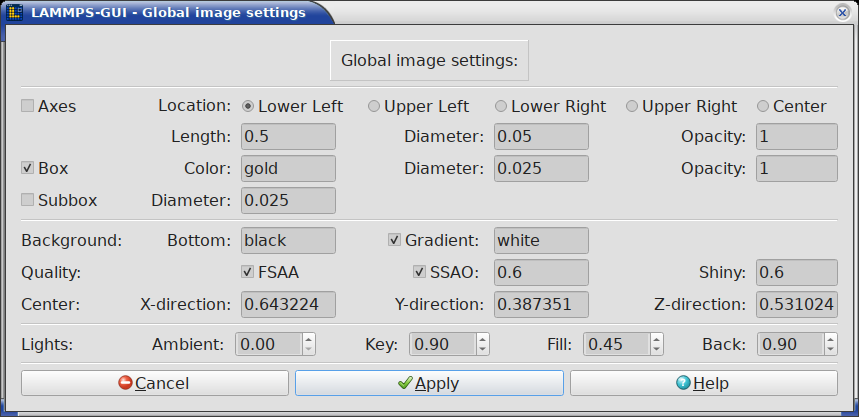
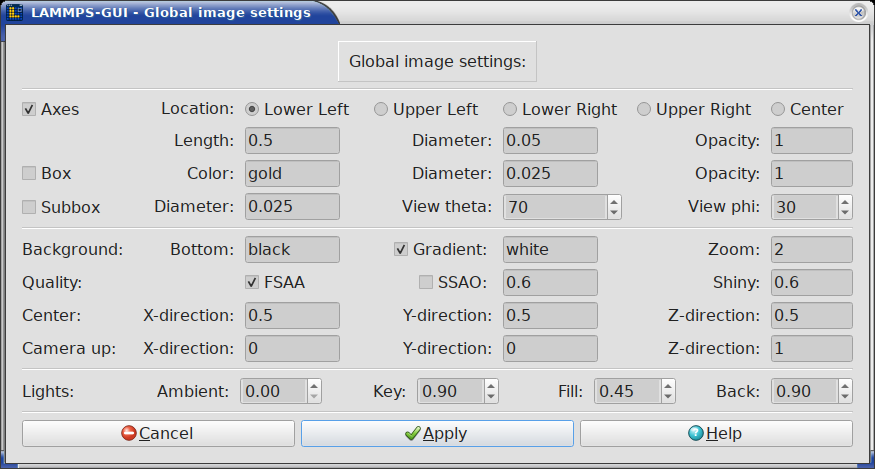
add more fields to global settings: view, zoom, up

Changed region(s): [[0.0, 0.0935, 0.9988, 0.9976], [0.0, 0.0, 0.9988, 0.0624], [0.9383, 0.4053, 0.9988, 0.4365]]

diff --git a/src/imageviewersettings.cpp b/src/imageviewersettings.cpp
@@ -98,7 +98,10 @@ void ImageViewer::globalSettings()
     auto *colorvalidator    = new QColorValidator(this);
     auto *transvalidator    = new QDoubleValidator(0.0, 1.0, 3, this);
     auto *fractionvalidator = new QDoubleValidator(0.00001, 5.0, 5, this);
+    auto *zoomvalidator     = new QDoubleValidator(ZOOM_MIN, ZOOM_MAX, 3, this);
+    auto *upvalidator       = new QDoubleValidator(this);
     auto fwidth             = setview.fontMetrics().size(Qt::TextSingleLine, "0.00000000").width();
+    const bool is3d         = lammps->extractSetting("dimension") == 3;
 
     auto *layout          = new QGridLayout;
     int idx               = 0;
@@ -184,7 +187,30 @@ void ImageViewer::globalSettings()
     auto *subdiam = new QLineEdit(QString::number(subboxdiam));
     subdiam->setValidator(fractionvalidator);
     subdiam->setMaximumWidth(fwidth);
-    layout->addWidget(subdiam, idx++, n++, 1, 1);
+    layout->addWidget(subdiam, idx, n++, 1, 1);
+
+    // the "view" angles have no effect on a 2d system, where LAMMPS looks down the z-axis
+    layout->addWidget(new QLabel("View theta: "), idx, n++, 1, 1,
+                      Qt::AlignVCenter | Qt::AlignRight);
+    auto *thetaval = new QSpinBox;
+    thetaval->setRange(0, 360);
+    thetaval->setSingleStep(10);
+    thetaval->setWrapping(true);
+    thetaval->setValue(hrot);
+    thetaval->setMaximumWidth(fwidth * 3 / 2);
+    thetaval->setEnabled(is3d);
+    thetaval->setToolTip("Viewing angle in degrees away from the +z axis");
+    layout->addWidget(thetaval, idx, n++, 1, 1);
+    layout->addWidget(new QLabel("View phi: "), idx, n++, 1, 1, Qt::AlignVCenter | Qt::AlignRight);
+    auto *phival = new QSpinBox;
+    phival->setRange(-180, 180);
+    phival->setSingleStep(10);
+    phival->setWrapping(true);
+    phival->setValue(vrot);
+    phival->setMaximumWidth(fwidth * 3 / 2);
+    phival->setEnabled(is3d);
+    phival->setToolTip("Azimuthal viewing angle in degrees around the z axis");
+    layout->addWidget(phival, idx++, n++, 1, 1);
     layout->addWidget(new QHline, idx++, 0, 1, MAXCOLS);
 
     n = 0;
@@ -206,7 +232,14 @@ void ImageViewer::globalSettings()
     b2color->setMaximumWidth(fwidth);
     b2color->setEnabled(usegradient);
     connect(gradient, &QCheckBox::toggled, b2color, &QLineEdit::setEnabled);
-    layout->addWidget(b2color, idx++, n++, 1, 1);
+    layout->addWidget(b2color, idx, n++, 1, 1);
+    layout->addWidget(new QLabel("Zoom: "), idx, n++, 1, 1, Qt::AlignVCenter | Qt::AlignRight);
+    auto *zoomval = new QLineEdit(QString::number(zoom));
+    zoomval->setValidator(zoomvalidator);
+    zoomval->setMaximumWidth(fwidth);
+    zoomval->setToolTip(
+        QString("Zoom factor of the view (range: %1 -- %2)").arg(ZOOM_MIN).arg(ZOOM_MAX));
+    layout->addWidget(zoomval, idx++, n++, 1, 1);
 
     n = 0;
     layout->addWidget(new QLabel("Quality:"), idx, n++, 1, 1);
@@ -247,6 +280,30 @@ void ImageViewer::globalSettings()
     zval->setValidator(transvalidator);
     zval->setMaximumWidth(fwidth);
     layout->addWidget(zval, idx++, n++, 1, 1);
+
+    n             = 0;
+    auto *uplabel = new QLabel("Camera up:");
+    uplabel->setToolTip("Direction pointing up in the image; must not be the zero vector");
+    layout->addWidget(uplabel, idx, n++, 1, 1);
+    layout->addWidget(new QLabel("X-direction: "), idx, n++, 1, 1,
+                      Qt::AlignVCenter | Qt::AlignRight);
+    auto *xupval = new QLineEdit(QString::number(xup));
+    xupval->setValidator(upvalidator);
+    xupval->setMaximumWidth(fwidth);
+    layout->addWidget(xupval, idx, n++, 1, 1);
+    layout->addWidget(new QLabel("Y-direction: "), idx, n++, 1, 1,
+                      Qt::AlignVCenter | Qt::AlignRight);
+    auto *yupval = new QLineEdit(QString::number(yup));
+    yupval->setValidator(upvalidator);
+    yupval->setMaximumWidth(fwidth);
+    layout->addWidget(yupval, idx, n++, 1, 1);
+    layout->addWidget(new QLabel("Z-direction: "), idx, n++, 1, 1,
+                      Qt::AlignVCenter | Qt::AlignRight);
+    auto *zupval = new QLineEdit(QString::number(zup));
+    zupval->setValidator(upvalidator);
+    zupval->setMaximumWidth(fwidth);
+    zupval->setEnabled(is3d);
+    layout->addWidget(zupval, idx++, n++, 1, 1);
 
     n = 0;
     layout->addWidget(new QHline, idx++, 0, 1, MAXCOLS);
@@ -347,6 +404,10 @@ void ImageViewer::globalSettings()
     if (bgcolor->hasAcceptableInput()) backcolor = bgcolor->text();
     if (b2color->hasAcceptableInput()) backcolor2 = b2color->text();
     usegradient = gradient->isChecked();
+    if (zoomval->hasAcceptableInput()) zoom = zoomval->text().toDouble();
+
+    hrot = thetaval->value();
+    vrot = phival->value();
 
     antialias = fsaa->isChecked();
     button    = findChild<QPushButton *>("antialias");
@@ -362,6 +423,19 @@ void ImageViewer::globalSettings()
     if (xval->hasAcceptableInput()) xcenter = xval->text().toDouble();
     if (yval->hasAcceptableInput()) ycenter = yval->text().toDouble();
     if (zval->hasAcceptableInput()) zcenter = zval->text().toDouble();
+
+    // LAMMPS rejects a zero-length up vector, so keep the previous one in that case
+    if (xupval->hasAcceptableInput() && yupval->hasAcceptableInput() &&
+        zupval->hasAcceptableInput()) {
+        const double ux = xupval->text().toDouble();
+        const double uy = yupval->text().toDouble();
+        const double uz = zupval->text().toDouble();
+        if ((ux != 0.0) || (uy != 0.0) || (uz != 0.0)) {
+            xup = ux;
+            yup = uy;
+            zup = uz;
+        }
+    }
 
     ambientlight = ambient->value();
     keylight     = key->value();

diff --git a/test/test_dumpimage.cpp b/test/test_dumpimage.cpp
@@ -92,6 +92,10 @@ DumpImageParams makeParams()
     p.ycenter = 0.5;
     p.zcenter = 0.5;
 
+    p.xup = 0.0;
+    p.yup = 0.0;
+    p.zup = 1.0;
+
     p.ntypes       = 2;
     p.color_list   = {{"red", QColor(255, 0, 0)}, {"blue", QColor(0, 0, 255)}};
     p.boxcolor     = "white";
@@ -142,6 +146,7 @@ TEST(DumpImageCommand, BasicStructure)
     EXPECT_FALSE(cmd.contains(" subbox ")); // not shown -> pruned
     EXPECT_FALSE(cmd.contains(" axes "));   // not shown -> pruned
     EXPECT_FALSE(cmd.contains(" center ")); // default box center -> pruned
+    EXPECT_FALSE(cmd.contains(" up "));     // default up direction -> pruned
     EXPECT_TRUE(cmd.contains(" modify"));
     EXPECT_TRUE(cmd.contains(" noinit")); // no active fix/compute
     EXPECT_TRUE(cmd.contains(" boxcolor white"));
@@ -379,6 +384,7 @@ TEST(DumpImageCommand, AllDefaultsPruned)
     EXPECT_FALSE(cmd.contains(" subbox "));
     EXPECT_FALSE(cmd.contains(" axes "));
     EXPECT_FALSE(cmd.contains(" center "));
+    EXPECT_FALSE(cmd.contains(" up "));
     EXPECT_TRUE(cmd.contains(" modify"));
 }
 
@@ -423,6 +429,25 @@ TEST(DumpImageCommand, SubboxAxesCenterEmittedWhenSet)
     EXPECT_TRUE(cmd.contains(" subbox yes 0.01")) << cmd.toStdString();
     EXPECT_TRUE(cmd.contains(" axes "));
     EXPECT_TRUE(cmd.contains(" center s 0.3 0.5 0.5"));
+}
+
+TEST(DumpImageCommand, UpDirectionEmittedWhenNotDefault)
+{
+    auto p = makeParams(); // 3d with the default up direction "0 0 1"
+    EXPECT_FALSE(buildCmd(p).contains(" up "));
+
+    p.yup = 1.0;
+    p.zup = 0.0;
+    EXPECT_TRUE(buildCmd(p).contains(" up 0 1 0"));
+
+    // in 2d the default flips to "0 1 0", so the same vector is now pruned ...
+    p.dimension = 2;
+    EXPECT_FALSE(buildCmd(p).contains(" up "));
+
+    // ... and the 3d default becomes a delta worth emitting
+    p.yup = 0.0;
+    p.zup = 1.0;
+    EXPECT_TRUE(buildCmd(p).contains(" up 0 0 1"));
 }
 
 TEST(DumpImageCommand, BondColorByValueEmitsComputeAndBmap)

diff --git a/src/imageviewer.cpp b/src/imageviewer.cpp
@@ -777,7 +777,14 @@ void ImageViewer::readImageSettings()
     tridiam        = 0.2;
     triflag        = CYLINDERS;
     xcenter = ycenter = zcenter = 0.5;
-    if (lammps->extractSetting("dimension") == 2) zcenter = 0.0;
+    // the camera up direction defaults to the z-axis in 3d and the y-axis in 2d
+    xup = yup = zup = 0.0;
+    if (lammps->extractSetting("dimension") == 2) {
+        zcenter = 0.0;
+        yup     = 1.0;
+    } else {
+        zup = 1.0;
+    }
     settings.endGroup();
 
     if (color_list.isEmpty()) resetColors(); // create list of default colors
@@ -1043,14 +1050,14 @@ void ImageViewer::toggleAxes()
 void ImageViewer::doZoomIn()
 {
     zoom = zoom * 1.1;
-    zoom = std::min(zoom, 10.0);
+    zoom = std::min(zoom, ZOOM_MAX);
     createImage();
 }
 
 void ImageViewer::doZoomOut()
 {
     zoom = zoom / 1.1;
-    zoom = std::max(zoom, 0.1);
+    zoom = std::max(zoom, ZOOM_MIN);
     createImage();
 }
 
@@ -1449,6 +1456,11 @@ DumpImageParams ImageViewer::gatherDumpImageParams(const QString &dumpfilename)
     p.xcenter = xcenter;
     p.ycenter = ycenter;
     p.zcenter = zcenter;
+
+    // camera up direction
+    p.xup = xup;
+    p.yup = yup;
+    p.zup = zup;
 
     // colors / lighting
     p.color_list   = color_list;

diff --git a/src/dumpimage.cpp b/src/dumpimage.cpp
@@ -279,6 +279,12 @@ DumpImageCommand buildDumpImageCommand(const DumpImageParams &p)
     if ((p.xcenter != 0.5) || (p.ycenter != 0.5) || (p.zcenter != 0.5))
         d += QString(" center s %1 %2 %3").arg(p.xcenter).arg(p.ycenter).arg(p.zcenter);
 
+    // the camera up direction defaults to "0 0 1" in 3d and "0 1 0" in 2d
+    const double defyup = (p.dimension == 2) ? 1.0 : 0.0;
+    const double defzup = (p.dimension == 2) ? 0.0 : 1.0;
+    if ((p.xup != 0.0) || (p.yup != defyup) || (p.zup != defzup))
+        d += QString(" up %1 %2 %3").arg(p.xup).arg(p.yup).arg(p.zup);
+
     // ---- dump_modify options ----
 
     // change global color definitions first so they apply everywhere, but emit

diff --git a/src/dumpimage.h b/src/dumpimage.h
@@ -113,6 +113,11 @@ struct DumpImageParams {
     double ycenter; ///< view center y coordinate
     double zcenter; ///< view center z coordinate
 
+    // ---- camera up direction ----
+    double xup; ///< camera up vector x component
+    double yup; ///< camera up vector y component
+    double zup; ///< camera up vector z component
+
     // ---- colors / lighting ----
     int ntypes;                               ///< number of atom types
     QList<QPair<QString, QColor>> color_list; ///< per-type atom color table

diff --git a/src/imageviewer_internal.h b/src/imageviewer_internal.h
@@ -37,6 +37,8 @@ inline constexpr double VDW_CUT          = 1.0;
 inline constexpr double SHINY_ON         = 0.6;
 inline constexpr double SHINY_OFF        = 0.2;
 inline constexpr double SHINY_CUT        = 0.4;
+inline constexpr double ZOOM_MIN         = 0.1;
+inline constexpr double ZOOM_MAX         = 10.0;
 inline constexpr int DEFAULT_NPOINTS     = 100000;
 inline constexpr double DEFAULT_DIAMETER = 0.2;
 inline constexpr double DEFAULT_OPACITY  = 0.5;

diff --git a/src/imageviewer.h b/src/imageviewer.h
@@ -261,6 +261,7 @@ private:
     QString linecolor;                           ///< Custom line color property
     QString tricolor;                            ///< Custom triangle color property
     double xcenter, ycenter, zcenter;            ///< View center coordinates
+    double xup, yup, zup;                        ///< Camera up direction vector
     bool atomcustom;                             ///< Use custom atom color settings
     bool usegradient;                            ///< Vertical background gradient
     bool showbox;                                ///< Show simulation box flag

diff --git a/doc/visualization.rst b/doc/visualization.rst
@@ -278,7 +278,7 @@ additional controls (most are explained in detail below):
   "none" restores normal group-based display.
 - **Global**: Opens the :ref:`Global image settings <global_settings>`
   dialog for fine-grained control of axes, box, background, quality,
-  and center settings.
+  view, center, and camera settings.
 - **Atoms/Bonds**: Opens the :ref:`Atom and bond settings
   <atom_settings>` dialog for detailed atom, bond, VDW, and special atom
   style visualization options.
@@ -323,10 +323,10 @@ in this dialog correspond to options of the LAMMPS `dump image and
 dump_modify commands <https://docs.lammps.org/dump_image.html>`_.
 
 .. |global|  image:: JPG/lammps-gui-image-settings.png
-                     :width: 65%
+                     :width: 62%
 
 .. |boxaxes| image:: JPG/lammps-gui-image-box-axes.png
-                     :width: 33%
+                     :width: 35%
 
 |boxaxes|  |global|
 
@@ -367,6 +367,11 @@ The dialog is organized into the following sections:
      box.
    - **Diameter**: The diameter of the sub-domain box edge sticks as
      fraction of the box size (range: 0.00001 -- 5.0).
+   - **View theta**: The viewing angle in degrees away from the
+     positive z-axis (default: 60).  Disabled for 2d systems, where
+     LAMMPS always looks down the z-axis.
+   - **View phi**: The azimuthal viewing angle in degrees around the
+     z-axis (default: 30).  Disabled for 2d systems.
 
 **Background**
    Sets the background color(s) of the rendered image.
@@ -375,6 +380,10 @@ The dialog is organized into the following sections:
    - **Topcolor**: The background color at the top of the image.  If
      the two colors differ, a vertical gradient is applied from bottom
      to top.
+   - **Zoom**: The zoom factor of the view (range: 0.1 -- 10.0, where
+     values larger than 1.0 zoom in).  This is the same setting that
+     the zoom in/out buttons of the settings panel change in steps of
+     10 percent.
 
 **Quality**
    Controls rendering quality options.
@@ -393,6 +402,15 @@ The dialog is organized into the following sections:
    - **X-direction**, **Y-direction**, **Z-direction**: Fractional
      coordinates (range: 0.0 -- 1.0) specifying the center of the
      view relative to the simulation box.
+
+**Camera up**
+   Sets the direction that points up in the rendered image.
+
+   - **X-direction**, **Y-direction**, **Z-direction**: The components
+     of the camera's up vector.  The vector does not need to be
+     normalized, but it must not be all zeros, or the values are
+     ignored.  The default is 0 0 1 for 3d systems and 0 1 0 for 2d
+     systems, where the Z-direction entry is disabled.
 
 **Lighting**
    Adjusts the settings for the four light sources used in the